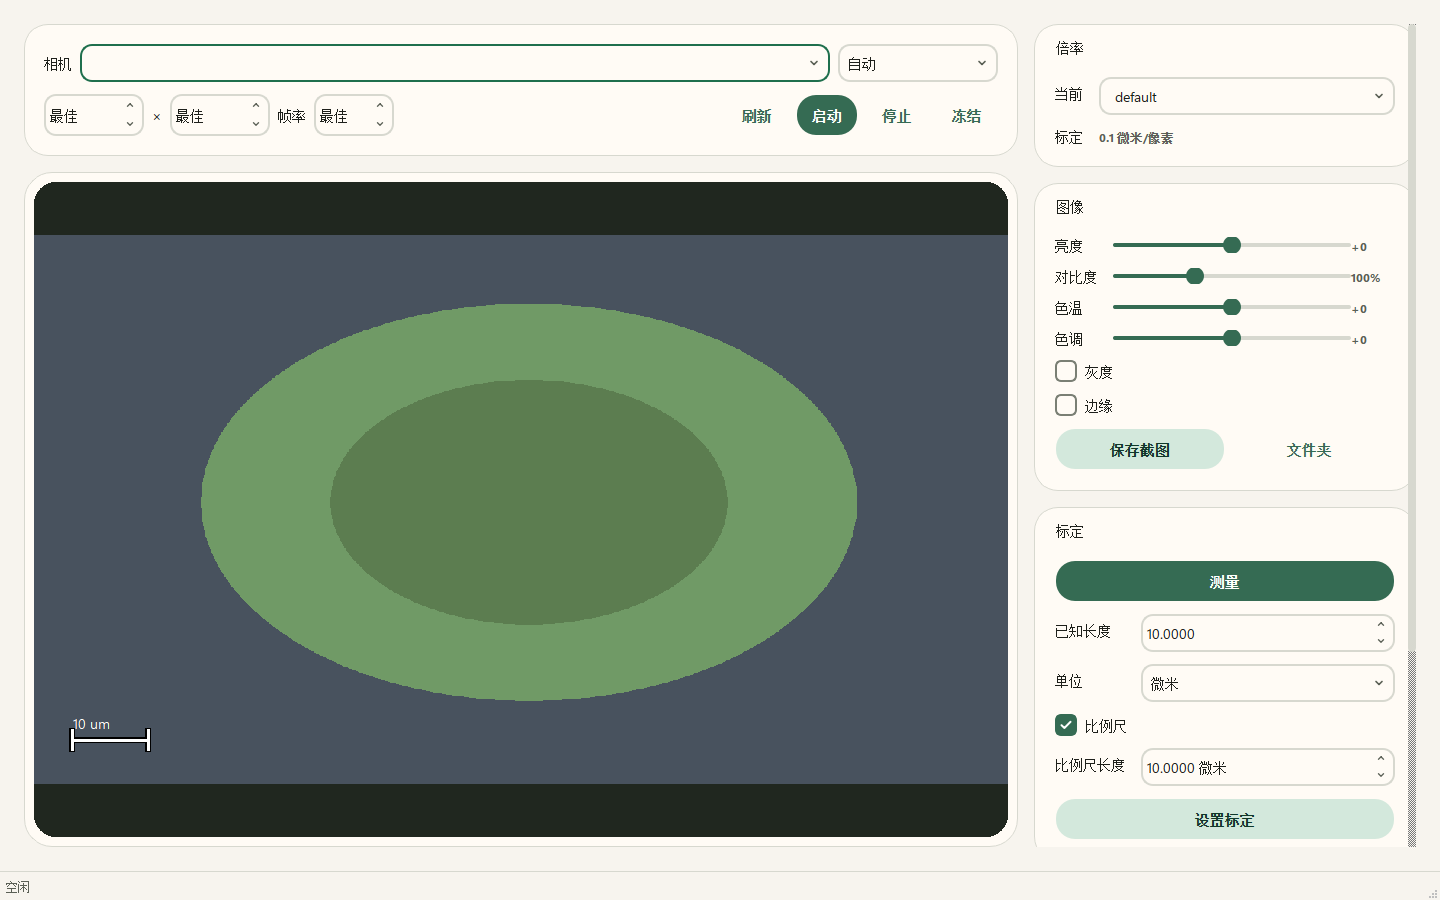
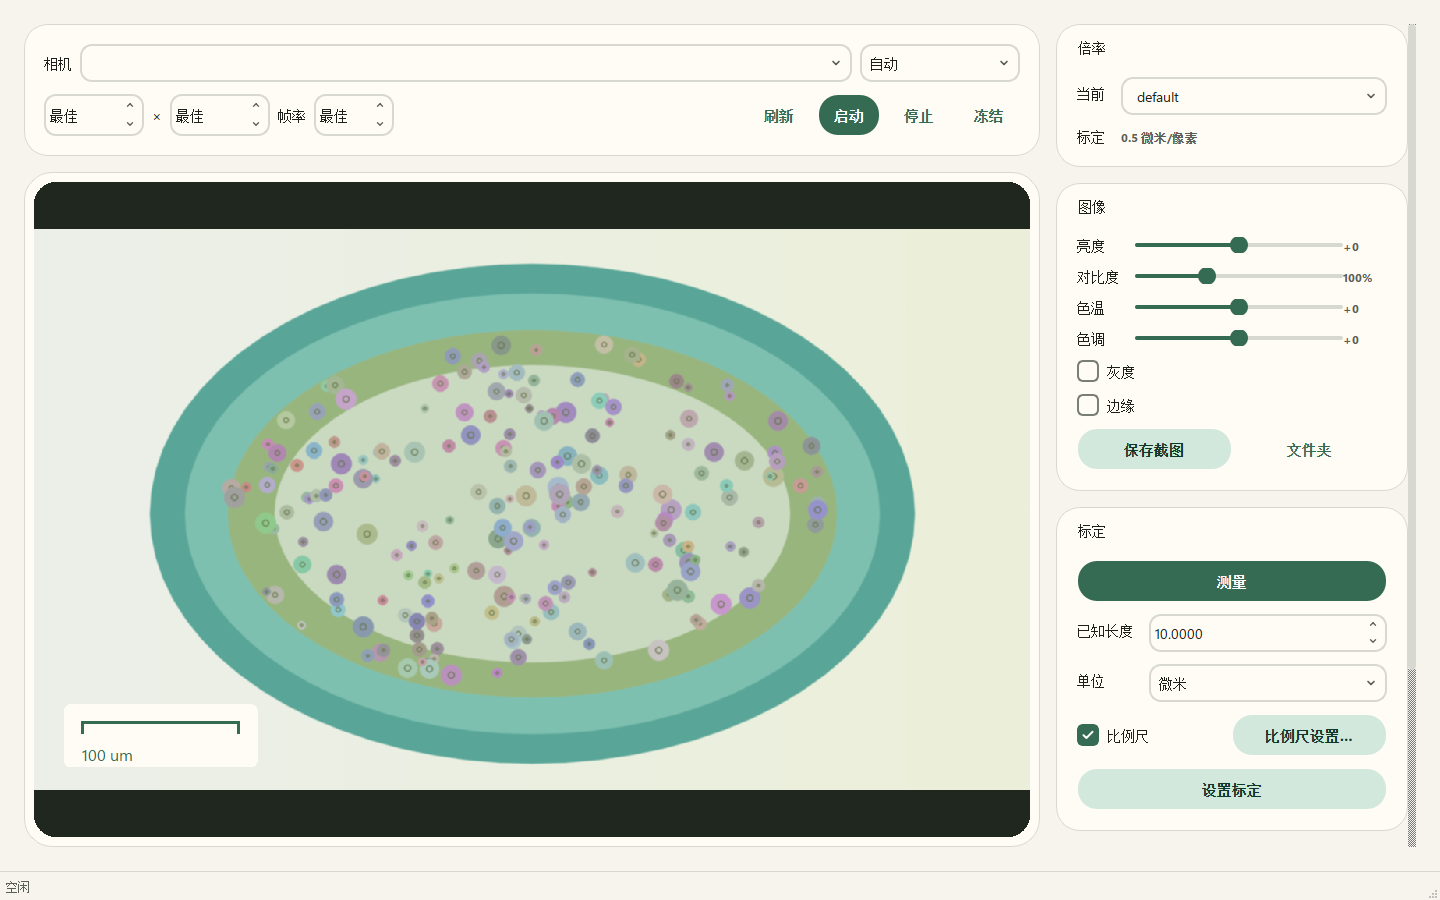
docs: document scale bar studio

diff --git a/HANDOFF.md b/HANDOFF.md
@@ -39,13 +39,20 @@
 
 ### 比例尺
 
-- 用户输入固定物理长度，不使用不可见自动长度替代。
-- 比例尺长度输入框显示当前单位，例如 `10.0000 微米`。
-- 勾选比例尺时提交输入框中的固定长度。
-- 实时画布和保存截图共用同一个几何函数。
+- 标定卡片提供 `比例尺` 开关和独立的 `比例尺设置…` 窗口。
+- 设置窗口包括实时预览、五种预设、四种形态、水平/垂直方向、
+  标签位置与显隐、描边、四组颜色、整体透明度、底板样式与透明度、
+  线宽、刻度长度、字号、分段数量和 3×3 九宫格位置。
+- 五种预设为 `简洁线`、`科研描边`、`分段标尺`、`Material 绿`、`紧凑括号`。
+- 物理长度按倍率独立保存；视觉样式和位置作为全局偏好保存。
+- 比例尺必须有明确的固定物理长度。缺少固定长度时不绘制，也不会自动拟合
+  一个不同的长度。
+- 修改标定单位会清除旧标定及旧比例尺长度；重新标定并启用比例尺时使用
+  `10.0` 当前单位作为可见的固定默认值。
+- 实时画布和保存截图使用同一套样式模型与几何计算。
 - 比例尺可拖动，位置按归一化图像坐标保存。
 - 截图使用 OpenCV 可渲染的 ASCII 单位标签，微米显示为 `um`。
-- 切换倍率或修改标定单位后，比例尺使用新的当前标定，不沿用旧单位。
+- 全局偏好 schema v2 保存比例尺样式；v1 偏好可自动迁移。
 
 ### 项目数据
 
@@ -59,6 +66,7 @@
 - 60-30-10 配色、统一间距、圆角和 12/14/18px 字号。
 - 跟随系统浅色/深色模式。
 - 中文界面；驱动和格式技术名保留原文。
+- 比例尺设置使用独立弹窗，浅色、深色及 100%/150% 缩放布局均通过检查。
 
 ## AI 功能状态
 
@@ -82,8 +90,8 @@ release/0.3.0/windows-x64
 
 | 文件 | 大小 | SHA-256 |
 | --- | ---: | --- |
[4 lines of base64/hex data omitted]
 
 Python 包：
 
@@ -96,12 +104,13 @@ EXE 没有 Authenticode 数字签名，Windows SmartScreen 可能显示未知发
 
 ## 测试与验证
 
-本次实际执行：
+比例尺工作室完成后实际执行：
 
 ```text
 ruff: passed
-mypy strict: passed, 28 source files
-pytest: 71 passed
+mypy strict: passed, 35 source files
+pytest: 96 passed
+light/dark and 100%/150% native renders: passed
 wheel/sdist: passed
 PyInstaller EXE: passed
 packaged smoke: passed
@@ -141,7 +150,7 @@ pwsh -NoProfile -File scripts/build_windows.ps1 -Version 0.3.0
 
 ## 下一步优先级
 
-1. 用真实电子目镜完成比例尺和微米单位的端到端验收。
+1. 用真实电子目镜完成比例尺工作室和微米单位的端到端验收。
 2. 完成 60 秒预览稳定性测试。
 3. 根据真实切片反馈继续增强面积、周长和统计功能。
 4. AI 背景去除保持在核心应用之外。

diff --git a/README.md b/README.md
@@ -12,10 +12,13 @@ not contain code, assets, or models from JCameraPro.
 
 Open Vision Measure 是一个本地优先的显微镜图像观察、标定、测量和截图工具，
 面向植物组织切片等科研场景。界面支持中文、浅色/深色主题、多物镜倍率独立标定、
-微米等物理单位。项目采用 Apache-2.0 许可证，不包含 JCameraPro 的代码、资源或
-模型。当前版本不提供自动背景去除或 AI 主体分割。
+微米等物理单位，以及带实时预览的独立比例尺设置窗口。项目采用 Apache-2.0
+许可证，不包含 JCameraPro 的代码、资源或模型。当前版本不提供自动背景去除或
+AI 主体分割。
 
 ![Open Vision Measure microscope workflow](docs/images/micrometre-workflow.png)
+
+![Scale Bar Studio](docs/images/scale-bar-studio.png)
 
 ## Core MVP
 
@@ -26,7 +29,10 @@ Open Vision Measure 是一个本地优先的显微镜图像观察、标定、测
 - Brightness, contrast, temperature, tint, grayscale, and edge preview.
 - Two-click line measurement in image coordinates.
 - Per-magnification physical calibration from a two-click reference.
-- Optional draggable fixed-length scale bar in live and saved images.
+- Dedicated scale-bar studio with live preview, five presets, four shapes,
+  horizontal/vertical orientation, labels, colors, backgrounds, opacity, sizing,
+  nine-position placement, and matching live/saved rendering.
+- Fixed physical scale-bar length stored independently for each magnification.
 - Persistent screenshot folder with automatic `capture_0001` sequencing.
 - Project save/load and CSV measurement export.
 - Unicode Windows paths for screenshots and project files.
@@ -74,6 +80,8 @@ calculates SHA-256, and creates a distributable ZIP under
 - [Core MVP design](docs/superpowers/specs/2026-11-02-open-vision-measure-design.md)
 - [Implementation plan](docs/superpowers/plans/2026-11-02-core-mvp.md)
 - [Microscope workflow spec](docs/superpowers/specs/2026-11-05-microscope-workflow.md)
+- [Scale Bar Studio spec](docs/superpowers/specs/2026-11-05-scale-bar-studio.md)
+- [Scale Bar Studio implementation plan](docs/superpowers/plans/2026-11-05-scale-bar-studio.md)
 
 ## Contributing and security
 

diff --git a/docs/superpowers/plans/2026-11-05-scale-bar-studio.md b/docs/superpowers/plans/2026-11-05-scale-bar-studio.md
@@ -26,6 +26,7 @@
 
 **Files:**
 - Create: `src/vision_measure/inspection/scale_bar.py`
+- Create: `src/vision_measure/inspection/scale_bar_renderer.py`
 - Create: `tests/unit/test_scale_bar_style.py`
 
 **Interfaces:**
@@ -144,7 +145,7 @@ Set `SCHEMA_VERSION = 2`; accept `1` and `2` when loading. Version 1 uses
 ### Task 3: Styled Geometry and Screenshot Rendering
 
 **Files:**
-- Modify: `src/vision_measure/inspection/scale_bar.py`
+- Modify: `src/vision_measure/inspection/scale_bar_renderer.py`
 - Modify: `src/vision_measure/workspace/screenshot.py`
 - Modify: `tests/unit/test_scale_bar_style.py`
 - Modify: `tests/unit/test_screenshot.py`
@@ -304,6 +305,7 @@ Material theme; no local QSS.
 - Modify: `src/vision_measure/ui/panels.py`
 - Modify: `src/vision_measure/ui/microscope.py`
 - Modify: `src/vision_measure/ui/viewport.py`
+- Create: `src/vision_measure/ui/scale_bar_painter.py`
 - Modify: `src/vision_measure/ui/main_window.py`
 - Modify: `src/vision_measure/ui/screenshot_flow.py`
 - Modify: `tests/ui/test_calibration_flow.py`

diff --git a/docs/superpowers/specs/2026-11-05-scale-bar-studio.md b/docs/superpowers/specs/2026-11-05-scale-bar-studio.md
@@ -98,8 +98,9 @@ change only after `应用`.
 
 The same geometry and style object drive both renderers:
 
-- `ui/viewport.py` draws with Qt.
-- `inspection/scale_bar.py` draws with OpenCV for screenshots.
+- `ui/scale_bar_painter.py` draws the live canvas through Qt.
+- `inspection/scale_bar_renderer.py` draws with OpenCV for previews and
+  screenshots.
 
 Horizontal and vertical geometry use the same physical length conversion and
 bounds checking. If the bar does not fit, the operation fails rather than
